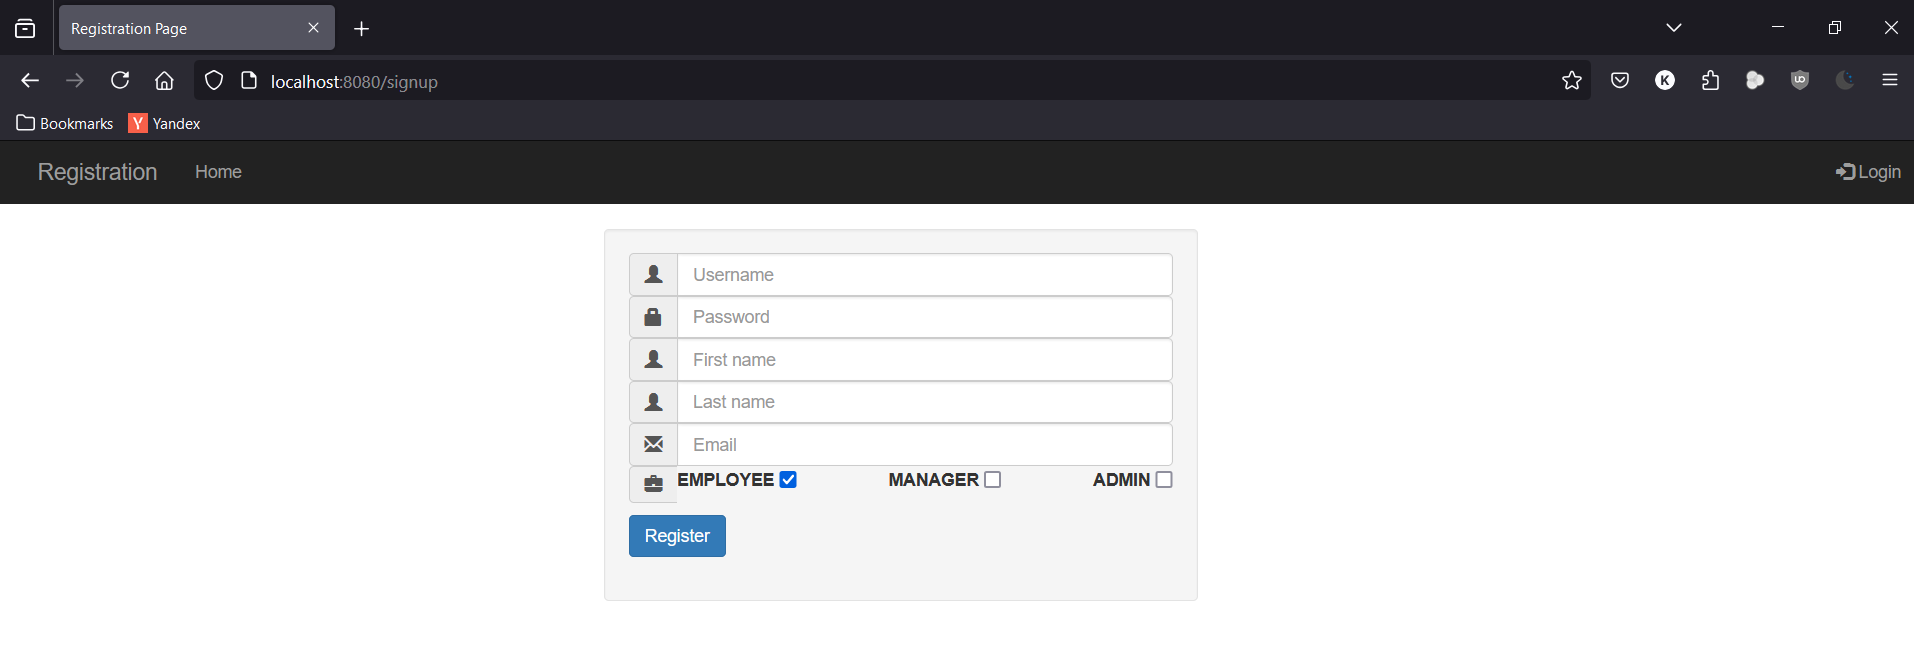
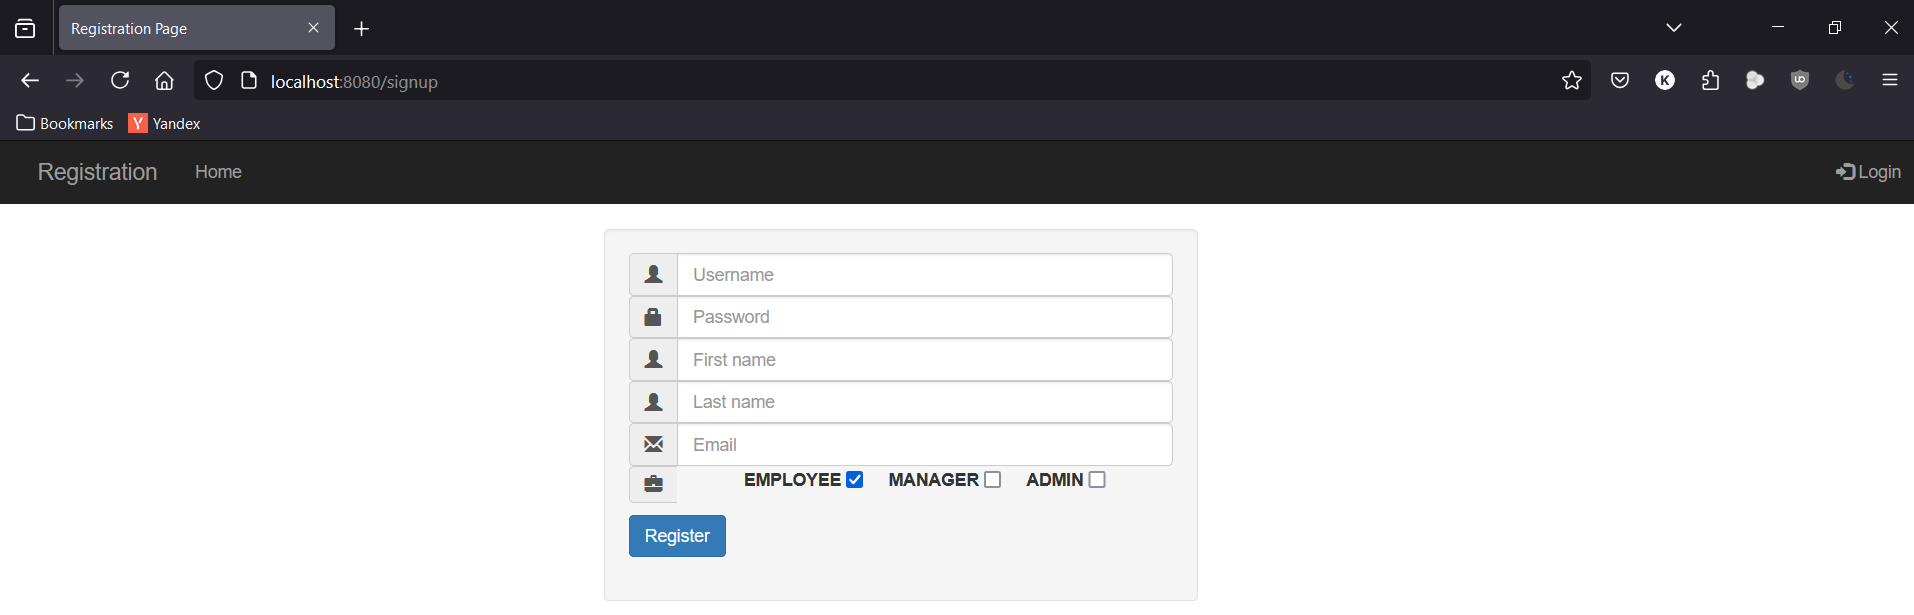
add

diff --git a/08-spring-boot-spring-mvc-security/02-spring-boot-spring-mvc-crud-security-code/src/main/resources/templates/users/signup.html b/08-spring-boot-spring-mvc-security/02-spring-boot-spring-mvc-crud-security-code/src/main/resources/templates/users/signup.html
@@ -65,8 +65,8 @@
                             <!-- Roles -->
                             <div class="input-group">
                                 <span class="input-group-addon"><i class="glyphicon glyphicon-briefcase"></i></span>
-                                <div style="width: 100%; display: flex; justify-content: space-between;">
-                                    <div th:each="role : ${roles}">
+                                <div style="width: 100%; display: flex; justify-content: center;">
+                                    <div th:each="role : ${roles}" style="margin: 0 10px;">
                                         <!-- <label th:for="${role.id}" th:text="${role.name}"></label> -->
                                         <label th:for="${role.id}" th:text="${#strings.substring(role.name, 5)}"></label>
                                         <input type="checkbox" th:field="*{roles}" th:value="${role.id}" />

diff --git a/08-spring-boot-spring-mvc-security/README.md b/08-spring-boot-spring-mvc-security/README.md
@@ -5134,8 +5134,8 @@ So here we can remove the "`ROLE_`" parts by using **Thymeleaf** methods for str
 ````html
 <div class="input-group">
     <span class="input-group-addon"><i class="glyphicon glyphicon-briefcase"></i></span>
-    <div style="width: 100%; display: flex; justify-content: space-between;">
-        <div th:each="role : ${roles}">
+    <div style="width: 100%; display: flex; justify-content: center;">
+        <div th:each="role : ${roles}" style="margin: 0 10px;">
             <!-- <label th:for="${role.id}" th:text="${role.name}"></label> -->
             <input type="checkbox" th:field="*{roles}" th:value="${role.id}" />
         </div>
